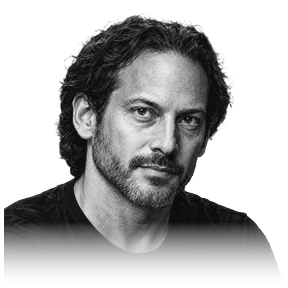
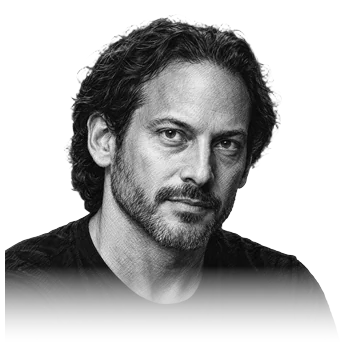
Home: centre 'Your instructors'; author portraits 20% larger again
- The 'Your instructors' heading is centred.
- Portraits start at 173px (was 144px), re-exported at 346x346 (2x,
  16-21 KB each) so they stay sharp. Initials, gaps, neighbour slide
  distances and the headroom for the quote grow to match; every quote still
  clears the heading and the hovered name stays inside the strip.

Claude-Session: https://claude.ai/code/session_01VaoqKuJj5DLPneMi29o7VR

diff --git a/public/styles.css b/public/styles.css
@@ -205,13 +205,16 @@ h2 {
   max-width: 40rem;
 }
 
+.home-instructors .section-head { text-align: center; }
+.home-instructors .section-head h2 { margin-left: auto; margin-right: auto; }
+
 /* Author carousel: two identical sets, the track slides by exactly one set width. */
 .marquee {
   --dock-scale: 1.55; /* how much a hovered portrait grows */
   overflow: hidden;
   /* The extra top padding above is headroom for hovered portraits; pull the strip up by the
      same amount so its position on the page doesn't change. */
-  margin-top: -40px;
+  margin-top: -72px;
   -webkit-mask-image: linear-gradient(to right, transparent, #000 8%, #000 92%, transparent);
           mask-image: linear-gradient(to right, transparent, #000 8%, #000 92%, transparent);
 }
@@ -228,22 +231,22 @@ h2 {
 @keyframes marquee { from { transform: translateX(0); } to { transform: translateX(calc(-100% / var(--marquee-copies, 2))); } }
 .marquee-set {
   display: flex;
-  gap: 34px;
+  gap: 41px;
   list-style: none;
   margin: 0;
   /* Trailing space equals the gap, and every size is a whole pixel, so one set is exactly
      half the track and the -50% loop point lands on a pixel boundary: no visible jump. */
-  padding: 256px 34px 30px 0; /* headroom for the hover magnification, glow and quote */
+  padding: 304px 41px 30px 0; /* headroom for the hover magnification, glow and quote */
 }
-.marquee .author { flex: 0 0 auto; width: 144px; text-align: center; }
+.marquee .author { flex: 0 0 auto; width: 173px; text-align: center; }
 .marquee .author a { display: block; color: inherit; text-decoration: none; border-radius: 4px; }
 .marquee .author a:focus-visible { outline: 1px solid var(--accent); outline-offset: 4px; }
 /* Portraits are transparent cut-outs that float on the page: no frame, no background. */
 .marquee .author img,
 .marquee .initials {
   display: block;
-  width: 144px;
-  height: 144px;
+  width: 173px;
+  height: 173px;
   object-fit: contain;
   object-position: center bottom;
 }
@@ -254,7 +257,7 @@ h2 {
   align-items: center;
   justify-content: center;
   font-family: var(--serif);
-  font-size: 2.3rem;
+  font-size: 2.75rem;
   letter-spacing: 0.02em;
   color: var(--ink-soft);
 }
@@ -312,13 +315,13 @@ h2 {
 .marquee .author:focus-within { transform: scale(var(--dock-scale)); z-index: 1; }
 /* Neighbours grow less and slide outward so the enlarged portrait never overlaps them. */
 .marquee .author:has(+ .author:hover),
-.marquee .author:has(+ .author:focus-within) { transform: translateX(-41px) scale(1.2); }
+.marquee .author:has(+ .author:focus-within) { transform: translateX(-49px) scale(1.2); }
 .marquee .author:hover + .author,
-.marquee .author:focus-within + .author { transform: translateX(41px) scale(1.2); }
+.marquee .author:focus-within + .author { transform: translateX(49px) scale(1.2); }
 .marquee .author:has(+ .author + .author:hover),
-.marquee .author:has(+ .author + .author:focus-within) { transform: translateX(-19px) scale(1.07); }
+.marquee .author:has(+ .author + .author:focus-within) { transform: translateX(-23px) scale(1.07); }
 .marquee .author:hover + .author + .author,
-.marquee .author:focus-within + .author + .author { transform: translateX(19px) scale(1.07); }
+.marquee .author:focus-within + .author + .author { transform: translateX(23px) scale(1.07); }
 .marquee .author:hover img,
 .marquee .author:hover .initials,
 .marquee .author:focus-within img,

diff --git a/build.js b/build.js
@@ -176,7 +176,7 @@ function initials(name) {
 
 function authorItem(a, prefix, copy) {
   const face = a.portrait
-    ? `<img src="${prefix}${a.portrait}" alt="" width="144" height="144" loading="lazy" decoding="async" />`
+    ? `<img src="${prefix}${a.portrait}" alt="" width="173" height="173" loading="lazy" decoding="async" />`
     : `<span class="initials" aria-hidden="true">${esc(initials(a.name))}</span>`;
   const quote = a.quote
     ? `<span class="quote"><q>${esc(a.quote)}</q>${a.quoteSource ? `<cite>${esc(a.quoteSource)}</cite>` : ''}</span>`

diff --git a/pages/index.html b/pages/index.html
@@ -10,7 +10,7 @@
     </div>
   </div>
 
-  <section>
+  <section class="home-instructors">
     <div class="wrap">
       <div class="section-head">
         <h2>Your instructors</h2>

diff --git a/scripts/portraits.py b/scripts/portraits.py
@@ -6,7 +6,7 @@ e.g. `daniel-kahneman.png`, `niccolo-machiavelli.webp`, and for each one:
   - trims the empty margin and scales the figure to a fixed height, centred and sitting on the
     bottom edge, so every portrait in the strip lines up;
   - fades the bottom edge out, so the shoulders melt into the page instead of ending in a line;
-  - writes a 288x288 WebP (2x the 144px display size) to assets/portraits/<name>.webp;
+  - writes a 346x346 WebP (2x the 173px display size) to assets/portraits/<name>.webp;
   - records it in data/authors.json.
 
 Usage: python3 scripts/portraits.py <folder-or-files...>      (needs Pillow: pip install pillow)
@@ -16,10 +16,10 @@ from pathlib import Path
 from PIL import Image, ImageChops
 
 ROOT = Path(__file__).resolve().parent.parent
-SIZE = 288          # output square, px (2x the 144px display size)
+SIZE = 346          # output square, px (2x the 173px display size)
 FIGURE = 0.96       # figure height as a share of the square
 FADE = 0.24         # bottom share of the figure that fades out
-MAX_BYTES = 30_000
+MAX_BYTES = 40_000
 
 def slug(name):
     s = unicodedata.normalize('NFKD', name).encode('ascii', 'ignore').decode()
